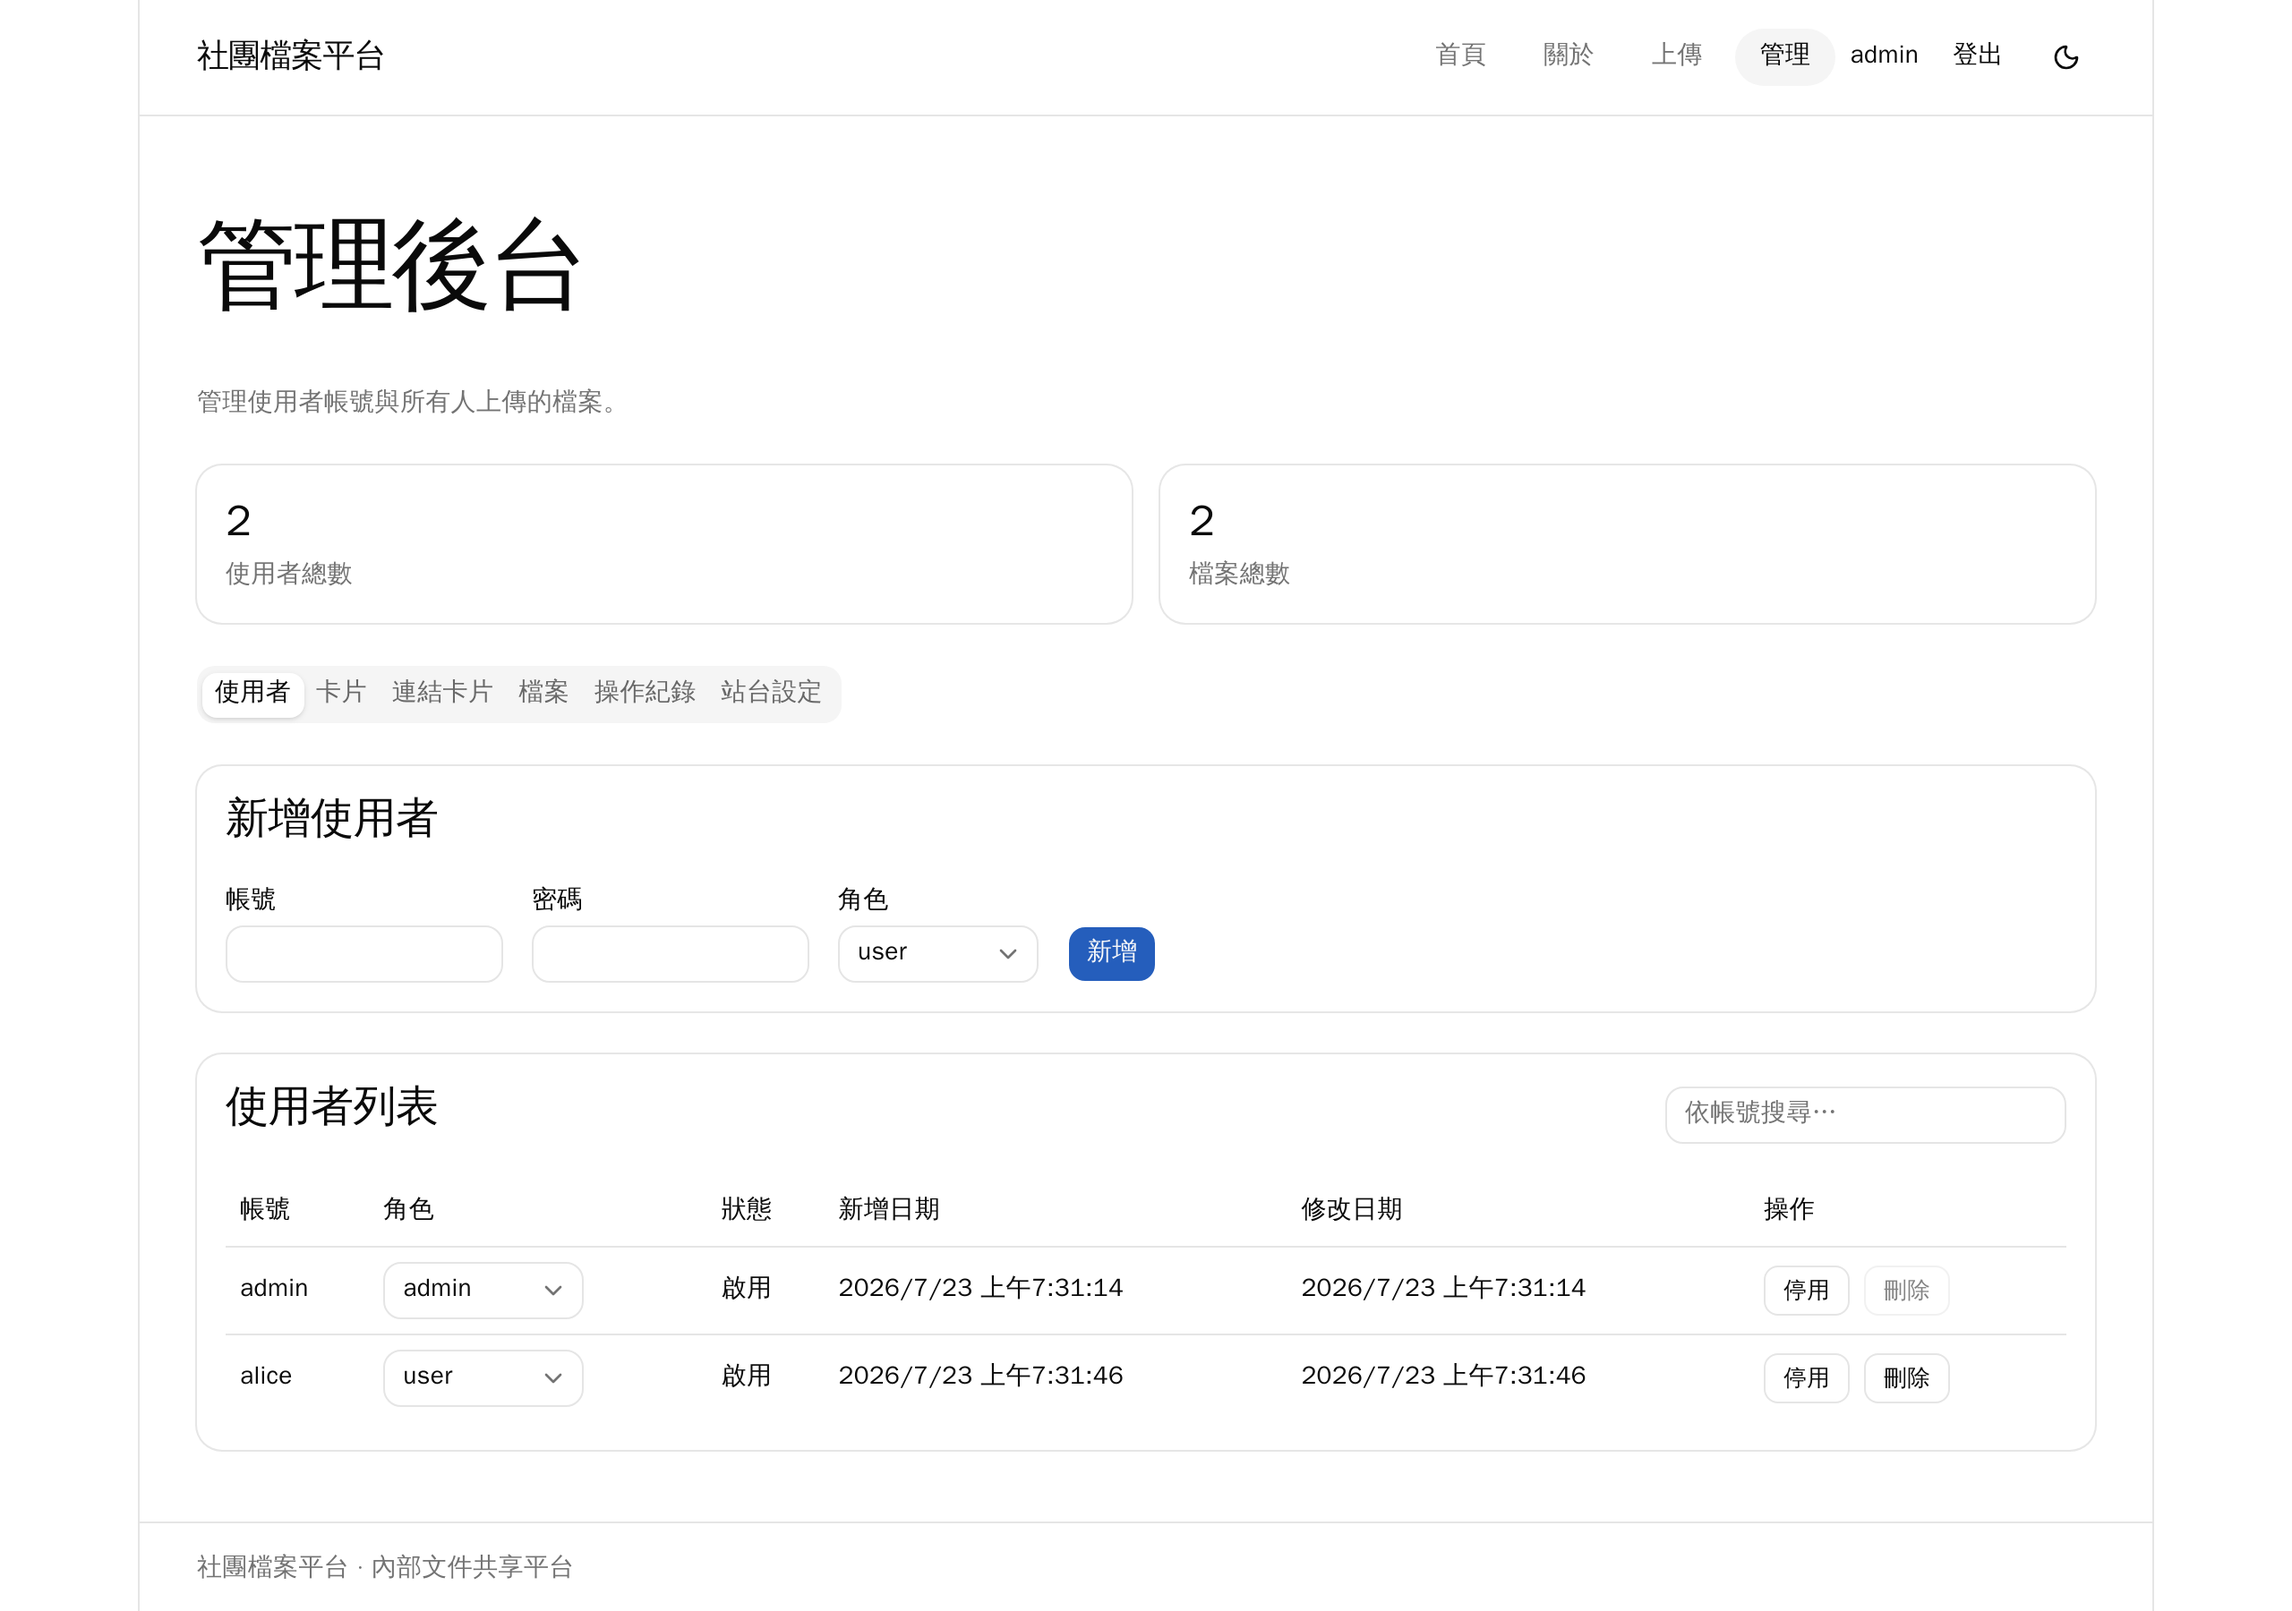
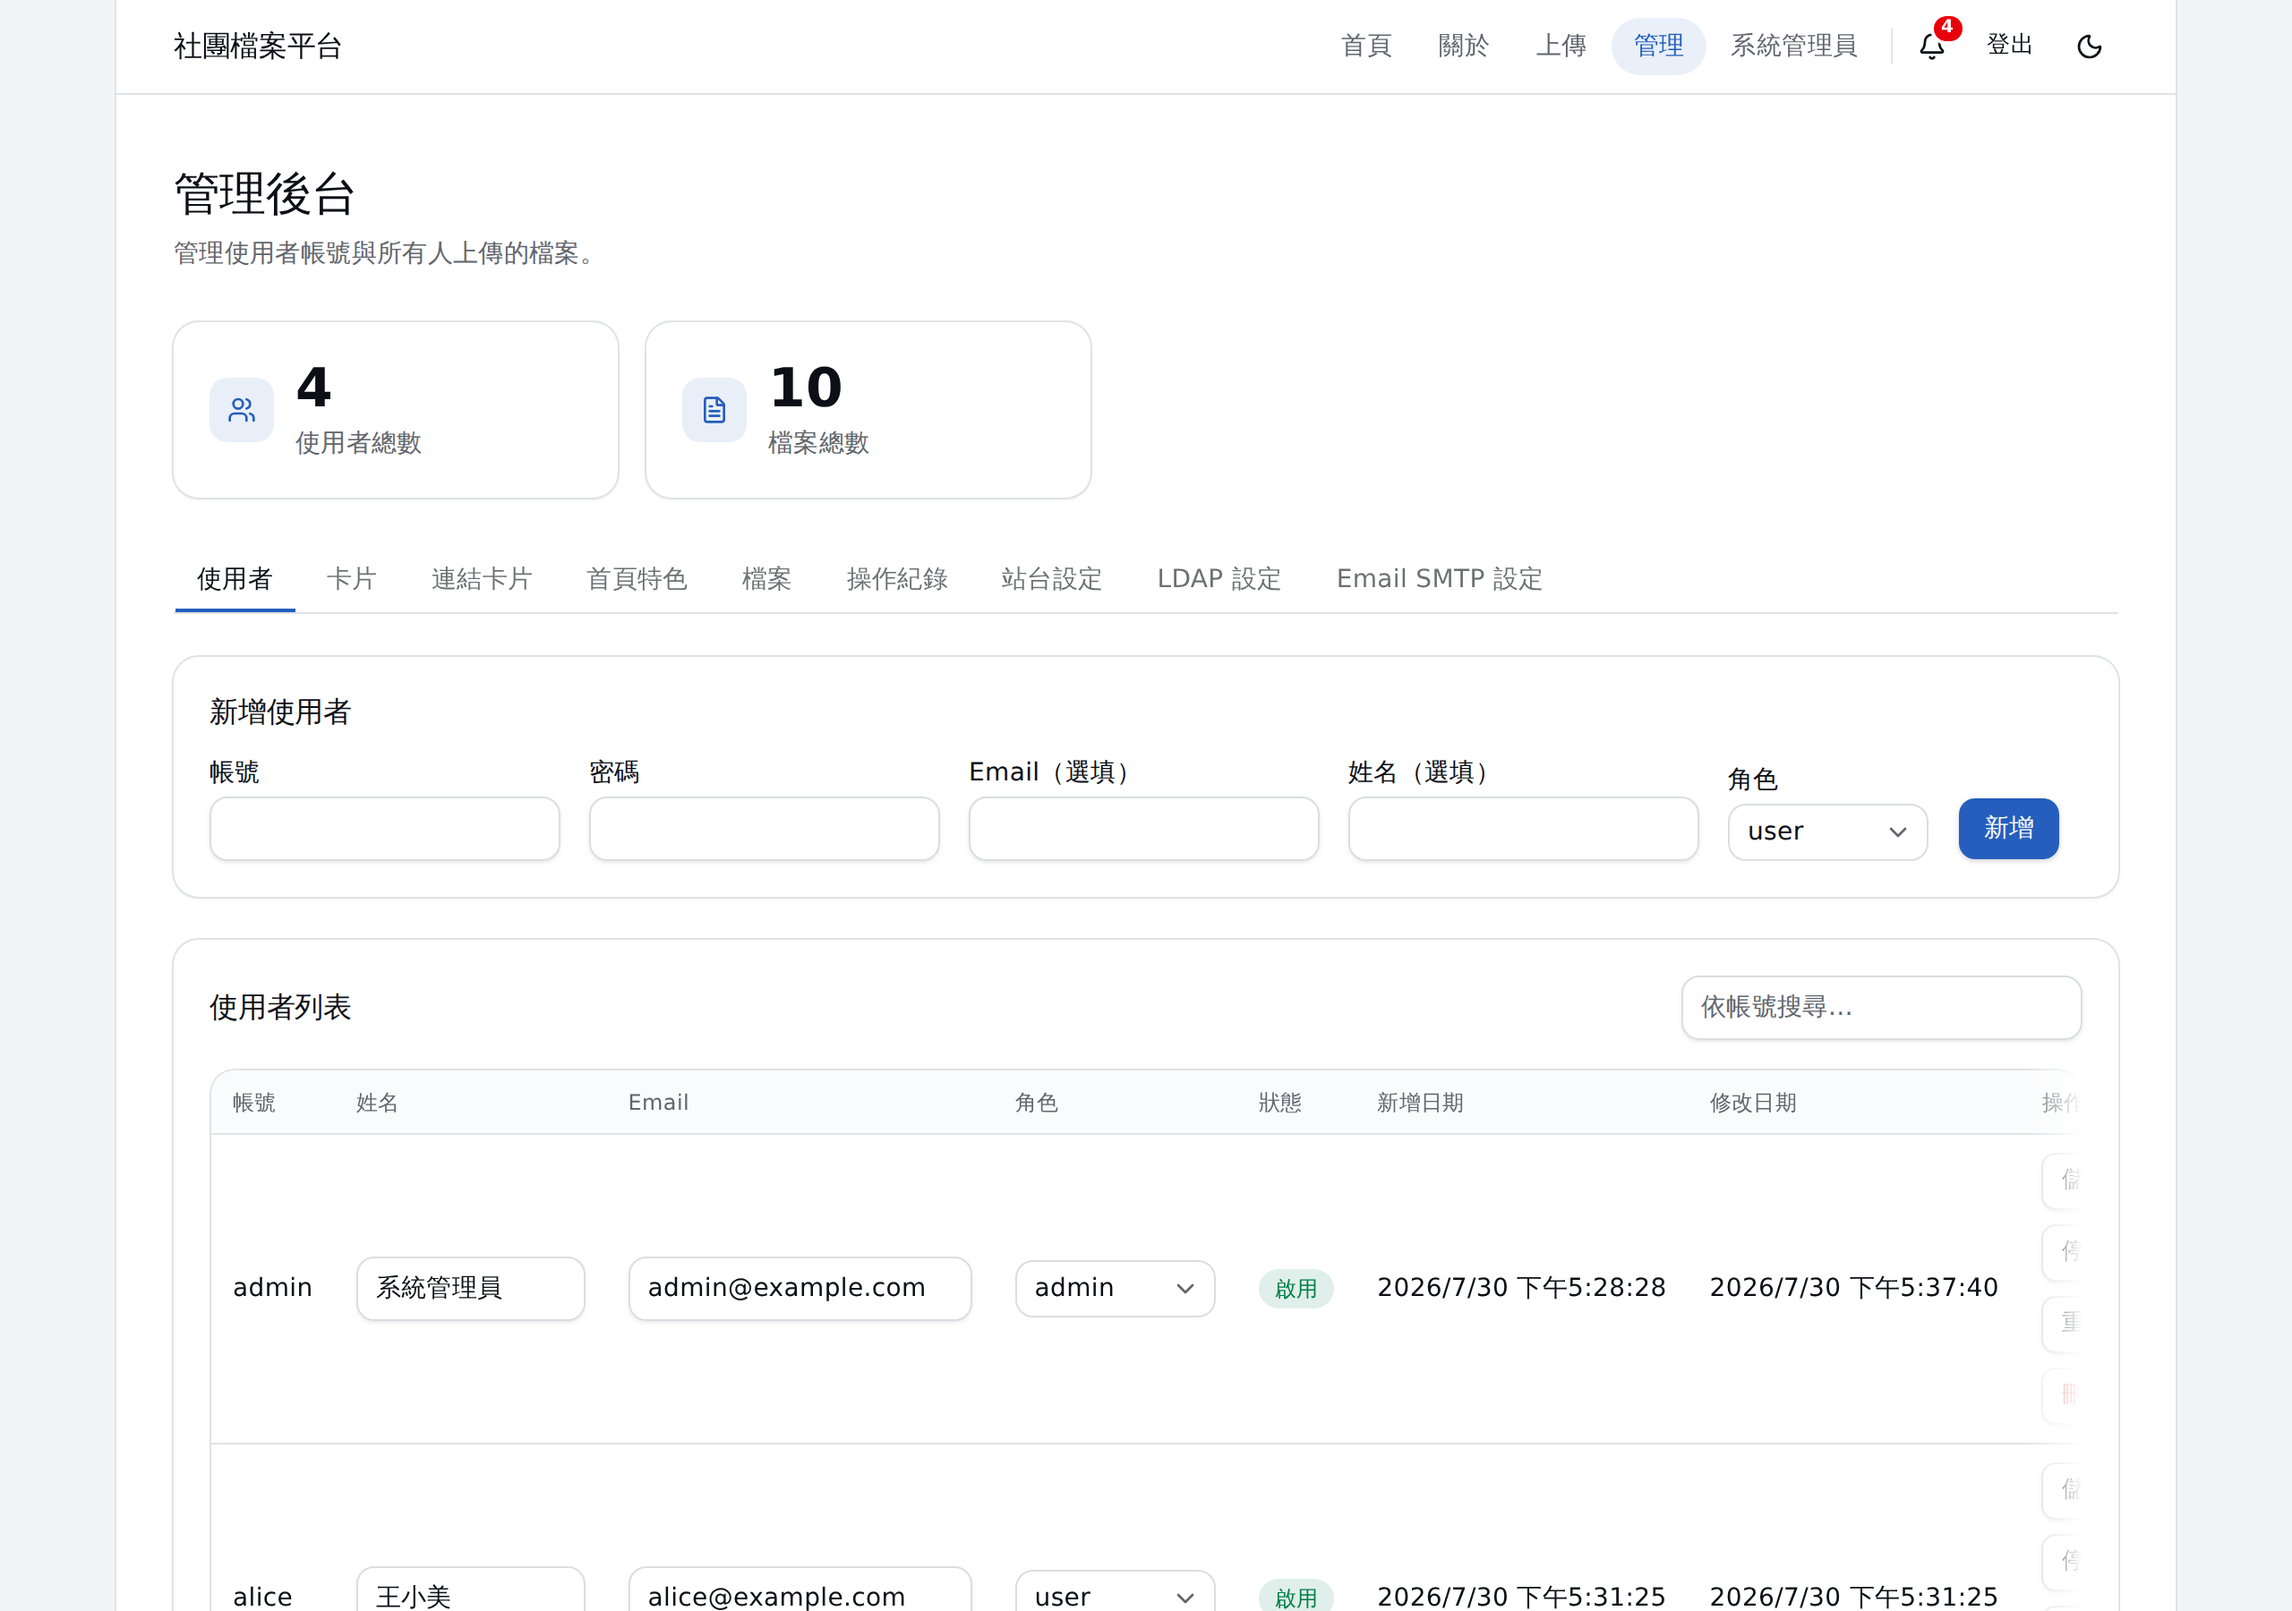
更新 README 補上深色模式與介面設計說明，並重拍全站截圖
README 的功能說明停在 PR #91，之後 #93 的全站視覺改版沒有反映進來：深色／明亮模式切換
（早在 theme toggle 上線時就有）從未被寫進「專案特點」，#93 帶進來的設計 token、骨架與空
狀態、toast 提示同樣沒有著墨，技術棧也漏了 sonner 與 tw-animate-css。

docs/screenshots/ 的圖全部拍於 #93 改版之前，畫面已與現況不符；通知中心那格更是從加入表格
起就只有「待補圖」的文字佔位，`/admin` 的「首頁特色」分頁（#90）也一直沒有截圖。這次以乾淨
的展示資料重拍 14 張（含新增的 admin-highlights 與 notifications），維持原本 2560×1800 的
規格。

順帶修正「頁面與權限」的兩處描述：檔案的公開／私密切換、版本與刪除實際上是在首頁的檔案列表
操作，/upload 只負責上傳。

diff --git a/README.md b/README.md
@@ -21,10 +21,8 @@
 | ![管理後台站台設定](docs/screenshots/admin-site-settings.png) | ![管理後台 LDAP 設定](docs/screenshots/admin-ldap-settings.png) |
 | **管理後台－Email SMTP 設定**                          | **個人資料頁**                                           |
 | ![管理後台 Email SMTP 設定](docs/screenshots/admin-smtp-settings.png) | ![個人資料頁](docs/screenshots/profile.png) |
-| **通知中心**                                           |                                                          |
-| （待補圖：`docs/screenshots/notifications.png`）        |                                                          |
-
-> 通知中心的截圖待補（需要帳號實際收到通知才拍得出未讀徽章與「全部標記已讀」）；補上 png 到 `docs/screenshots/` 後改成圖片連結即可。
+| **管理後台－首頁特色**                                 | **通知中心**                                             |
+| ![管理後台首頁特色](docs/screenshots/admin-highlights.png) | ![通知中心](docs/screenshots/notifications.png)       |
 
 ## 🌟 專案特點
 
@@ -42,6 +40,8 @@
 *   **Email SMTP 設定**：寄送重設密碼信、上傳通知信所使用的 SMTP 伺服器、帳密等設定，可直接在管理後台網頁上設定，無需改動伺服器環境變數；未啟用或未設定時，信件內容僅會寫入後端日誌，方便本機開發測試。
 *   **站台外觀設定**：站台名稱、瀏覽器分頁標題、首頁歡迎卡片的主標題與副標說明文字，以及網站圖示（favicon）與首頁歡迎圖片，皆可直接在管理後台的「站台設定」中修改；圖片支援 SVG / PNG / JPG / GIF / WebP / ICO 上傳，未設定時使用內建預設值。
 *   **首頁特色介紹**：首頁歡迎區塊下方的特色卡片（圖示、標題、說明文字、排序、是否顯示）可在管理後台的「首頁特色」中自行新增、編輯與刪除；圖示由下拉選單挑選，卡片張數不固定，首頁版面會依張數自動調整。
+*   **深色／明亮模式**：右上角可一鍵切換深色與明亮外觀，選擇會記在瀏覽器本機（`localStorage` 的 `theme`）；第一次造訪時跟隨作業系統的深色偏好（`prefers-color-scheme`），且在頁面首次繪製之前就套用主題，深色使用者不會先看到一片白再跳暗。
+*   **一致的介面設計**：全站的色彩、圓角與間距統一由設計 token 定義（明亮／深色各一套，見 `frontend/src/index.css`），資料載入中顯示骨架（skeleton）佔位、沒有資料時顯示統一的空狀態說明，操作成功或失敗則以畫面右下角的浮動訊息（toast）提示；版面與字級會依螢幕寬度自動調整。
 *   **檔案儲存**：檔案實體存放於伺服器本機檔案系統，資料庫僅儲存檔案 metadata。
 *   **檔案大小限制**：上傳檔案設有大小上限，避免磁碟空間被過大檔案佔滿。
 *   **操作稽核紀錄（Audit Log）**：記錄管理員的高權限操作（如建立/停用/刪除使用者帳號、刪除他人檔案等），包含操作者、時間、對象與動作內容，以利事後追溯。
@@ -53,19 +53,20 @@
 *   **後端 (Backend)**: Python / FastAPI
 *   **前端 (Frontend)**: React + TypeScript + Vite，UI 使用 Tailwind CSS v4 + shadcn（`base-nova`
     style，元件基底為 `@base-ui/react`）+ `lucide-react` 圖示，樣式組合用
-    `class-variance-authority` / `tailwind-merge`
+    `class-variance-authority` / `tailwind-merge`，浮動訊息（toast）用 `sonner`、動畫用
+    `tw-animate-css`；明亮／深色兩套設計 token 定義在 `frontend/src/index.css`
 *   **資料庫 (Database)**: PostgreSQL
 
 ## 🗺 頁面與權限 (Pages)
 
 | 路徑                | 頁面                                       | 需要登入                  |
 | ------------------- | ------------------------------------------ | ------------------------- |
-| `/`                 | 公開檔案牆（檔案卡片與連結卡片）           | 否，訪客可瀏覽下載公開檔案 |
+| `/`                 | 公開檔案牆（檔案卡片與連結卡片）；登入後可在此管理自己的檔案（公開／私密切換、版本、刪除） | 否，訪客可瀏覽下載公開檔案 |
 | `/about`            | 關於本站                                   | 否                        |
 | `/login`            | 登入                                       | 否                        |
 | `/forgot-password`  | 忘記密碼（寄送重設連結）                   | 否                        |
 | `/reset-password`   | 以 Email 連結重設密碼                      | 否                        |
-| `/upload`           | 上傳檔案與管理自己的檔案                   | 是                        |
+| `/upload`           | 上傳檔案（可設定顯示名稱、卡片分類、公告日期與可見度） | 是                        |
 | `/profile`          | 個人資料（姓名／Email／密碼／通知偏好）    | 是                        |
 | `/admin`            | 管理後台                                   | 是，且需 admin 角色       |
 
